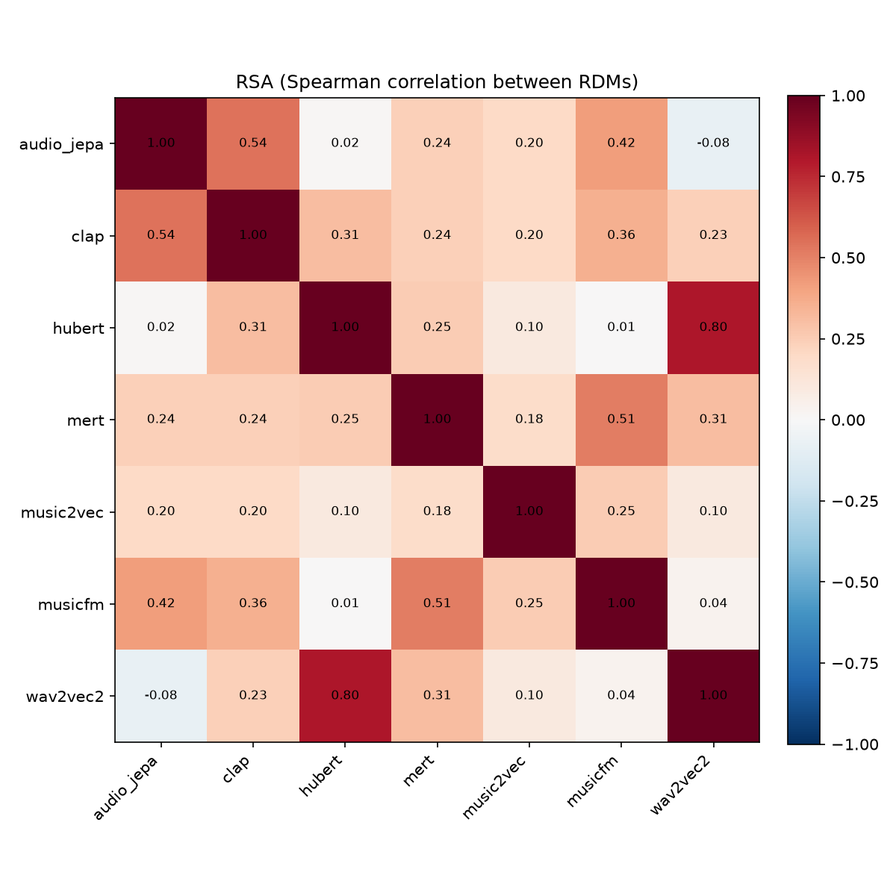
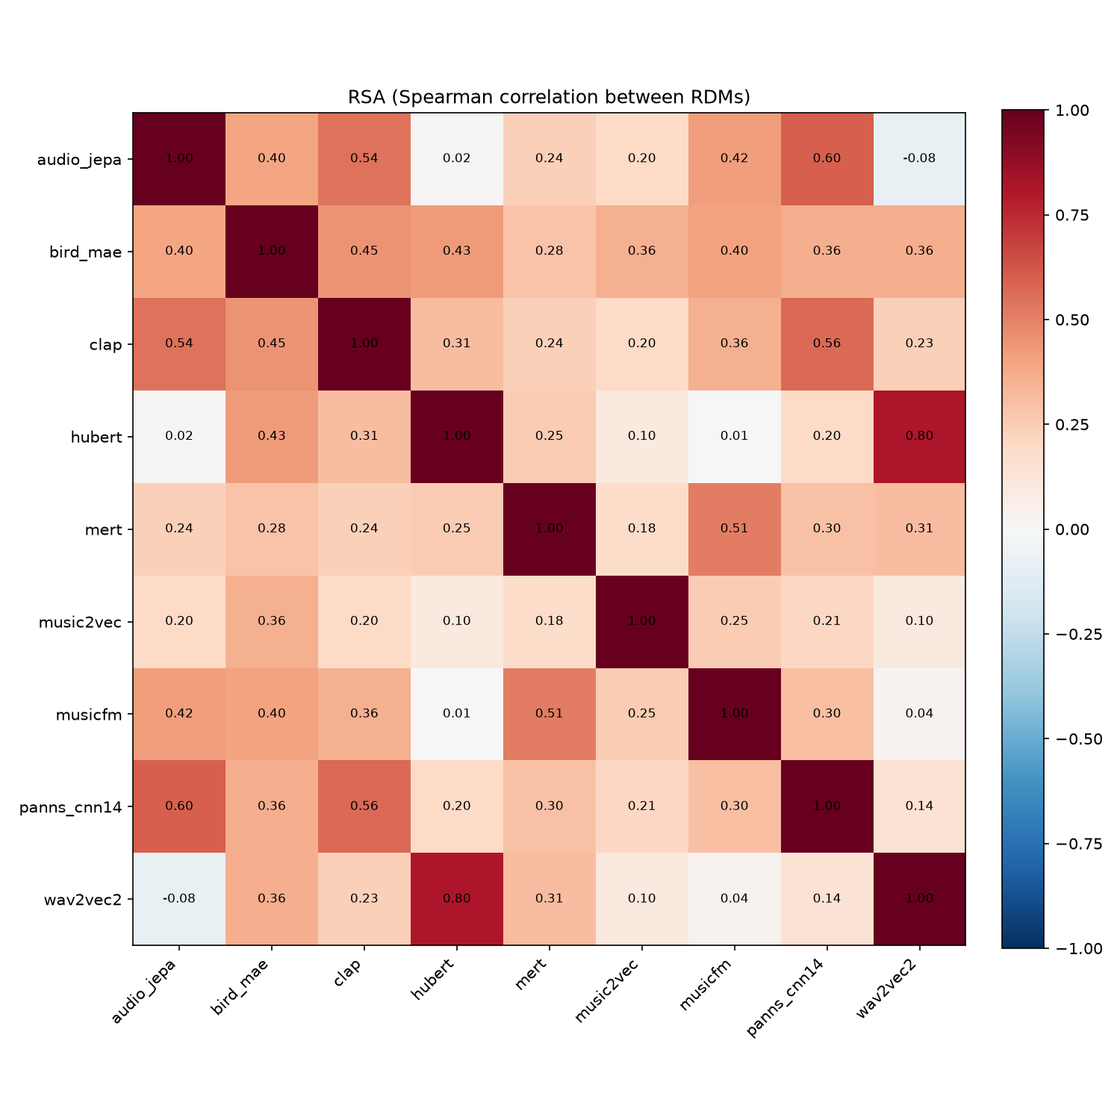
9-model RSA/CKA/TwoNN pass + BirdCLEF re-run: both pre-registered predictions tested, neither confirmed as originally framed
Fixed a real panns_cnn14 bug found extracting the full probe set:
Cnn14's pooling stack collapses to zero size below ~400ms input, and
the probe set has real 60ms clips (UrbanSound8K-derived). Original
smoke test missed it (only tested short clips inside a padded batch,
never standalone the way extract_embeddings.py actually calls embed()).
Fixed with a 1.0s zero-pad floor, applied identically in the new
xares_eval/encoders/panns_cnn14_encoder.py X-ARES wrapper.

Prediction 1 (PANNs / architecture axis): not supported. PANNs' mean
RSA with the 8 transformer models (0.334) is higher, not lower, than
the transformers' mean RSA with each other (0.283) -- no evidence
architecture family drives representational disagreement here. PANNs'
top individual correlations (audio_jepa, clap) line up with the
still-unstarted breadth-hypothesis reframing better than with paradigm
or architecture.

Prediction 2 (BirdMAE vs CLAP on BirdCLEF): real but more nuanced than
either clean alternative. BirdMAE beats CLAP on MLP (0.345 vs 0.284)
but not KNN (0.183 vs 0.189) -- and PANNs, with no bioacoustic domain
match at all, shows the identical MLP-wins/KNN-loses pattern relative
to CLAP. This complicates a pure domain-relevance explanation and
points instead to a training-objective effect: CLAP's contrastive space
is more separable untrained, while PANNs' supervised and BirdMAE's
reconstruction-MAE objectives both produce more MLP-trainable features
[…]

diff --git a/xares_eval/encoders/panns_cnn14_encoder.py b/xares_eval/encoders/panns_cnn14_encoder.py
@@ -1,0 +1,61 @@
+"""X-ARES encoder wrapper for PANNs Cnn14.
+
+Like CLAP (see clap_encoder.py's docstring for the fuller rationale),
+Cnn14 is architecturally clip-level, not frame-level: its forward pass
+pools out the time axis entirely inside the model (`torch.mean` over the
+frequency axis, then a max+mean pool over the remaining time axis) before
+returning a single 2048-d 'embedding' vector — there is no per-frame
+sequence to expose. Wrapped the same way as CLAP: the pooled embedding
+becomes a single "frame" spanning the whole clip. `hop_size_in_ms` is
+nominal here (matches the 4s dummy probe duration) — it isn't load-
+bearing for a genuinely single-frame-per-clip output, same as CLAP's.
+"""
+from __future__ import annotations
+
+import numpy as np
+import torch
+
+from audio_comp.models import get_model_class
+from xares_eval.encoders._util import stack_ragged, to_numpy_mono
+
+
+class PANNsCnn14XaresEncoder(torch.nn.Module):
+    def __init__(self):
+        super().__init__()
+        self._adapter = get_model_class("panns_cnn14")(device="cuda" if torch.cuda.is_available() else "cpu")
+        self._adapter.load()
+        self.sampling_rate = self._adapter.info.expected_sample_rate
+        dummy = np.zeros(self.sampling_rate * 4, dtype=np.float32)
+        with torch.no_grad():
+            seq = self._forward_one_np(dummy)
+        self.output_dim = seq.shape[-1]
+        self.hop_size_in_ms = 4000  # one frame spans the whole clip, see module docstring
+
+    def _forward_one_np(self, waveform_np: np.ndarray) -> torch.Tensor:
+        # Same short-clip floor as audio_comp.models.panns_cnn14.embed_batch
+        # (Cnn14's pooling stack collapses to a zero-size dimension below
+        # ~400ms) -- X-ARES's own dataloader doesn't know about this
+        # model-specific minimum, so it must be enforced here too.
+        min_samples = int(self._adapter.MIN_SAFE_SAMPLES_S * self.sampling_rate)
+        if len(waveform_np) < min_samples:
+            waveform_np = np.pad(waveform_np, (0, min_samples - len(waveform_np)))
+        wav = torch.from_numpy(waveform_np).unsqueeze(0).to(self._adapter.device)
+        with torch.no_grad():
+            out = self._adapter._model(wav)
+        return out["embedding"][0].unsqueeze(0).cpu()  # (1, output_dim) -- a single frame
+
+    def forward(self, audio: torch.Tensor) -> torch.Tensor:
+        if audio.ndim == 1:
+            audio = audio.unsqueeze(0)
+        sequences = []
+        for row in audio:
+            waveform_np = to_numpy_mono(row)
+            sequences.append(self._forward_one_np(waveform_np))
+        return stack_ragged(sequences)
+
+
+if __name__ == "__main__":
+    from xares.audio_encoder_checker import check_audio_encoder
+
+    encoder = PANNsCnn14XaresEncoder()
+    assert check_audio_encoder(encoder)

diff --git a/xares_eval/encoders/bird_mae_encoder.py b/xares_eval/encoders/bird_mae_encoder.py
@@ -1,0 +1,60 @@
+"""X-ARES encoder wrapper for Bird-MAE.
+
+Same situation as CLAP/PANNs (see clap_encoder.py's docstring): despite
+its HF output field being named `last_hidden_state`, BirdMAEModel.forward()
+already mean-pools over the patch/time axis internally
+(`config.global_pool == "mean"`) and returns a single pooled 768-d vector
+per clip -- there's no per-frame sequence to expose. Wrapped the same way:
+the pooled embedding becomes a single "frame" spanning the whole clip.
+`hop_size_in_ms` is nominal here, not load-bearing for a genuinely
+single-frame-per-clip output.
+
+Bird-MAE's own feature extractor internally pads/truncates every clip to
+a fixed 512-frame (~5s) window regardless of input length (see
+audio_comp.models.bird_mae's docstring), so unlike PANNs there's no
+separate short-clip floor to enforce here.
+"""
+from __future__ import annotations
+
+import numpy as np
+import torch
+
+from audio_comp.models import get_model_class
+from xares_eval.encoders._util import stack_ragged, to_numpy_mono
+
+
+class BirdMAEXaresEncoder(torch.nn.Module):
+    def __init__(self):
+        super().__init__()
+        self._adapter = get_model_class("bird_mae")(device="cuda" if torch.cuda.is_available() else "cpu")
+        self._adapter.load()
+        self.sampling_rate = self._adapter.info.expected_sample_rate
+        dummy = np.zeros(self.sampling_rate * 4, dtype=np.float32)
+        with torch.no_grad():
+            seq = self._forward_one_np(dummy)
+        self.output_dim = seq.shape[-1]
+        self.hop_size_in_ms = 4000  # one frame spans the whole clip, see module docstring
+
+    def _forward_one_np(self, waveform_np: np.ndarray) -> torch.Tensor:
+        features = self._adapter._extractor(
+            np.stack([waveform_np]), return_tensors="pt"
+        ).to(self._adapter.device)
+        with torch.no_grad():
+            out = self._adapter._model(input_values=features)
+        return out.last_hidden_state[0].unsqueeze(0).cpu()  # (1, output_dim) -- a single frame
+
+    def forward(self, audio: torch.Tensor) -> torch.Tensor:
+        if audio.ndim == 1:
+            audio = audio.unsqueeze(0)
+        sequences = []
+        for row in audio:
+            waveform_np = to_numpy_mono(row)
+            sequences.append(self._forward_one_np(waveform_np))
+        return stack_ragged(sequences)
+
+
+if __name__ == "__main__":
+    from xares.audio_encoder_checker import check_audio_encoder
+
+    encoder = BirdMAEXaresEncoder()
+    assert check_audio_encoder(encoder)

diff --git a/audio_comp/models/panns_cnn14.py b/audio_comp/models/panns_cnn14.py
@@ -68,9 +68,19 @@ class PANNsCnn14Encoder(BaseAudioEncoder):
         self._model.load_state_dict(checkpoint["model"])
         self._model = self._model.to(self.device).eval()
 
+    # Cnn14's 5 stages of (2,2) time-pooling collapse the logmel time axis
+    # to 0 for very short clips -- empirically tested 2026-08-10 (probe-set
+    # extraction crashed on real UrbanSound8K-derived clips as short as
+    # 60ms, same category of issue as the audio_jepa kaldi.fbank short-clip
+    # lesson): fails up to 300ms, first reliably safe at 400ms. 1.0s is a
+    # comfortable safety margin, not a value tied to any model design
+    # constant (unlike audio_jepa's fixed 10s training window).
+    MIN_SAFE_SAMPLES_S = 1.0
+
     def embed_batch(self, waveforms: Sequence[np.ndarray], sample_rate: int) -> np.ndarray:
         resampled = [resample(w, sample_rate, self.info.expected_sample_rate) for w in waveforms]
-        max_len = max(len(w) for w in resampled)
+        min_samples = int(self.info.expected_sample_rate * self.MIN_SAFE_SAMPLES_S)
+        max_len = max(min_samples, max(len(w) for w in resampled))
         batch = np.stack([np.pad(w, (0, max_len - len(w))) for w in resampled]).astype(np.float32)
         wav = torch.from_numpy(batch).to(self.device)
         with torch.no_grad():

diff --git a/journal.md b/journal.md
@@ -214,3 +214,31 @@
   - Once loaded: uses the model's own bundled `BirdMAEFeatureExtractor` (fbank extraction, fixed 512-frame padding/truncation, dataset-specific mean/std normalization) rather than reimplementing that logic — same reasoning as the audio_jepa kaldi.fbank lesson, reimplementing risks silently diverging from what the checkpoint actually trained on. `BirdMAEModel.forward()` already mean-pools internally (`config.global_pool == "mean"`) and returns the pooled 768-d vector as `last_hidden_state` — despite the name, not a per-frame sequence, no extra pooling needed. Smoke-tested clean on CPU (1s dummy + 60ms short clip → correctly gets zero-padded internally to the model's fixed 512-frame/5s input shape, no NaN).
 - Both added to `configs/models.yaml`'s `active_models` (now 9 total) only after passing the same smoke-test discipline as every prior model. Updated `audio_comp/models/__init__.py`, README's dependency list (`panns_inference`, `torchlibrosa` — neither declares a `torch` dependency, confirmed via `pip show`, so no repeat of the flash_attn/torch-downgrade incident) and model table (added a `checkpoint_status` column throughout, corrected `beats`' license cell to match the previous entry's finding), README's one-time-setup-script list, and CLAUDE.md's Tier 1 table (added a `Status` column marking these two `wired up 2026-08-10`).
 - Full registry sanity check after wiring: all 9 active models resolve through `get_model_class()` cleanly (the actual comparison-eligibility gate), correct `checkpoint_status` per model. Not yet run through the actual probe-set embedding extraction pipeline (`extract_embeddings.py` on the full 10,000-clip probe set) or the RSA/CKA comparison (Stage 3) — that's the next step, not done in this pass.
+- **Pre-registered predictions, written before running the 9-model geometry pass or the PANNs/BirdMAE BirdCLEF re-run** (user's explicit request, same discipline as the audio_jepa low-ID/high-cohesion prediction, 2026-08-09):
+  1. **PANNs, architecture axis.** If RSA/CKA agreement between `panns_cnn14` and the transformer-based models is notably *lower* than agreement among the transformer-based models with each other (even ones that differ in training objective), that's evidence architecture family shapes representational geometry independently of training paradigm — every model in the roster until now has varied objective/data, never backbone, so this would be a genuinely new axis, not a replay of an existing one.
+  2. **BirdMAE, the sharper test.** BirdMAE is domain-matched (bioacoustic-specific) but reconstruction-based (MAE-style), not contrastive — this directly stress-tests the discriminative-pressure/contrastive-training account of fine-grained classification that's been building since CLAP's wins on FMA/UrbanSound8K/BirdCLEF (2026-08-10 entries). If CLAP still beats BirdMAE on BirdCLEF specifically despite BirdMAE's domain match, that's strong, citable evidence the discriminative-pressure story dominates domain relevance — a genuinely striking result given how "obviously" a specialist should win on its own domain. If BirdMAE wins, that says domain-relevance can override the training-objective effect — the more expected outcome, but not yet confirmed, worth stating as the alternative rather than assumed.
+  Sequence: full RSA/CKA/TwoNN pass at 9 models first, then BirdCLEF re-run with `panns_cnn14`/`bird_mae` added, before deciding whether AudioMAE/AST or a write-up pause makes more sense.
+- Hit a real bug extracting `panns_cnn14`'s probe-set embeddings: `RuntimeError: Given input size: (256x1x16). Calculated output size: (256x0x8)` — Cnn14's 5 stages of (2,2) time-pooling collapse the logmel time axis to zero for short clips, and the 10,000-clip probe set includes real UrbanSound8K-derived `city_noise` clips as short as 60ms (same class of issue as the audio_jepa kaldi.fbank short-clip lesson, 2026-08-09, just a different model this time). My original smoke test missed this because it tested the 60ms clip only inside a padded batch alongside a 1s clip (which masked the problem), never as a standalone `embed()` call the way `extract_embeddings.py` actually calls it (one clip at a time, batch size 1). Empirically tested the real threshold: fails up to 300ms, first reliably safe at 400ms. Fixed with a 1.0s zero-pad floor in `embed_batch()` (a safety margin, not tied to any PANNs design constant, unlike audio_jepa's fixed-10s window) — re-extracted cleanly afterward, and applied the identical fix in the new `xares_eval/encoders/panns_cnn14_encoder.py` wrapper too, since X-ARES's own dataloader doesn't know about this model-specific minimum either.
+- Built `xares_eval/encoders/panns_cnn14_encoder.py` and `bird_mae_encoder.py` for the eventual BirdCLEF re-run, following the same pooled-single-frame-sequence pattern CLAP's wrapper already established (both models pool out the time axis entirely inside `forward()`, so there's no real per-frame sequence to expose — see `clap_encoder.py`'s docstring for the original rationale). Both smoke-tested clean via `check_audio_encoder`.
+- **Ran the full RSA/CKA/TwoNN comparison at 9 models** (`results/rsa_matrix.csv`, `cka_matrix.csv`, `intrinsic_dimension.csv`, heatmaps). Took considerably longer than the original 7-model run (~35+ min, backgrounded rather than foreground after a 2-minute timeout) — expected given `compute_rdm`'s O(n^2 * dim) cost on 10,000 clips, and PANNs' 2048-d embedding is the largest in the roster.
+  - **Prediction 1 (PANNs, architecture axis): not supported.** Computed directly: mean RSA among the 8 transformer-based models (28 pairs) = 0.2826; mean RSA between `panns_cnn14` and each of those 8 = 0.3336 — PANNs' agreement with the transformer roster is *higher* than the transformers' agreement with each other, the opposite direction the prediction was looking for. No evidence architecture family (CNN vs. transformer) is an independent geometry-shaping axis, at least not in the direction of causing systematic *disagreement*. A clean negative result, stated as such, not reached-for.
+  - **Candidate alternative pattern, worth flagging rather than following up on unprompted**: PANNs' two *highest* individual correlations are with `audio_jepa` (0.60) and `clap` (0.56) — both very different paradigms (JEPA-family, contrastive) but both trained on broad, general-audio-scale data (PANNs itself: AudioSet, a broad supervised-tagging corpus). This lines up with the still-not-started Stage 1(b) breadth-hypothesis reframing (narrow-speech / narrow-music / broad-mixed groupings) better than with either the paradigm or the architecture-family framing — PANNs, audio_jepa, and CLAP would all sit in the same "broad-mixed" bucket under that reframing. Not chased further now (Stage 1(b) is still explicitly out of scope for this session), but this is a second independent data point in its favor, worth remembering when that check finally happens.
+  - `bird_mae`'s RSA pattern is comparatively flat/uniform across the roster (0.28–0.45, no sharp outlier pairing either way) — nothing sharp enough here to comment on yet; the real BirdMAE test (prediction 2) is functional (BirdCLEF classification), not geometric, and needs the Slurm re-run's actual numbers, not the RSA matrix.
+  - TwoNN intrinsic dimension: `panns_cnn14` = 12.524 (unremarkable, sits between `clap` 12.314 and the rest of the pack — no architecture-driven outlier there either), `bird_mae` = 14.348 (also unremarkable). Neither model's ID stands out the way, say, `music2vec`'s 21.5 (highest of all 9) or `audio_jepa`'s 10.8 (lowest) already did.
+- BirdCLEF re-run submitted for `panns_cnn14` (job 54058115) and `bird_mae` (job 54058116) — both completed cleanly. Full 9-model BirdCLEF table (MLP / KNN, chance = 1/50 = 0.02):
+
+  | Model | MLP | KNN |
+  |---|---|---|
+  | bird_mae | **0.345** | 0.183 |
+  | panns_cnn14 | 0.308 | 0.134 |
+  | clap | 0.284 | **0.189** |
+  | hubert | 0.260 | 0.068 |
+  | mert | 0.250 | 0.068 |
+  | musicfm | 0.247 | 0.113 |
+  | music2vec | 0.121 | 0.049 |
+  | audio_jepa | 0.089 | 0.043 |
+  | wav2vec2 | 0.049 | 0.035 |
+
+  - **Prediction 2 (BirdMAE, the sharper test): result is real but more nuanced than either clean alternative posed.** BirdMAE *does* beat CLAP on MLP (0.345 vs. 0.284) — domain-relevance winning out over CLAP's discriminative/contrastive-pressure edge, the "more expected" outcome the prediction named as the alternative. But CLAP is still (barely) ahead on KNN (0.189 vs. 0.183 — a ~3% relative gap on n=1000, arguably within noise, not a clean win either way). So it's not a flat "BirdMAE wins" — it wins the trained-head comparison and ties/slightly loses the untrained raw-geometry comparison.
+  - **The complication worth stating plainly, not glossing over: PANNs shows the *exact same qualitative pattern* relative to CLAP, and PANNs is not domain-matched to birds at all** (general AudioSet supervised tagging) — MLP 0.308 > CLAP's 0.284, KNN 0.134 < CLAP's 0.189. If domain-relevance were the operative explanation for BirdMAE's MLP win, there's no reason a general-purpose, non-bioacoustic model should show the identical MLP-wins/KNN-loses relationship to CLAP. It does. This points to a cleaner, more general explanation than "domain match beats discriminative pretraining": **CLAP's contrastive embedding space is more linearly/metrically separable out of the box (higher KNN, no training needed), while both PANNs (supervised classification) and BirdMAE (reconstruction MAE) produce features that a trained MLP head can exploit *more* than CLAP's despite being less separable untrained.** This is a genuine extension of the project's standing cohesion-vs-separability headline finding (2026-08-10, Stage 1a): it's not just "coarse cohesion vs. fine-grained separability don't transfer" — training objective also seems to trade off *raw embedding-space separability* (what KNN measures) against *trainable-head exploitability* (what MLP measures), and this trade shows up whether or not the pretraining domain matches the downstream task. Domain-relevance (BirdMAE's actual bird training data) may still matter at the margin — it does have the single highest MLP score of all 9 — but the PANNs comparison shows domain match isn't *necessary* to get the same qualitative MLP/KNN split, so it can't be the primary explanation on its own.
+  - Not a fully resolved account yet — this is now three separable axes in play (coarse cohesion, fine-grained separability, and this new trained-head-exploitability-vs-raw-separability split) with only 9 models and 4 downstream tasks to trace them through. Flagging as the sharpest current lead for the eventual Stage 6 diagnostic (already candidate-marked for Wang & Isola alignment/uniformity metrics) rather than claiming it's settled.

diff --git a/CLAUDE.md b/CLAUDE.md
@@ -47,8 +47,8 @@ Phase 1 reached decision-rule outcome 2 (partial/cluster agreement) at 2000 clip
   |---|---|---|---|
   | AudioMAE | official_open_weights | Reconstruction-target paradigm (raw spectrogram, not latent) — nothing in the current roster tests this | not started |
   | AST | official_open_weights | Supervised training — tests whether label supervision matters independent of paradigm | not started |
-  | PANNs CNN14 | official_open_weights (verified 2026-08-10 against `github.com/qiuqiangkong/audioset_tagging_cnn` directly: MIT LICENSE.MIT, checkpoint on the authors' own Zenodo record) | Pure CNN architecture — every current model is transformer-based; untested ResNet-vs-ViT inductive-bias axis | **wired up 2026-08-10** (`audio_comp/models/panns_cnn14.py`, active in `configs/models.yaml`) |
-  | BirdMAE | official_public_weights_license_unclear (verified 2026-08-10: no LICENSE file in the GitHub repo — confirmed via GitHub's license API returning 404, not just undetected — and no license field on the HF card; genuinely unresolved, not a formality) | Domain-specific bioacoustic encoder; **also directly serves the `bird_sounds`/BirdCLEF X-ARES extension track (`xares_eval/birdclef/`) — one integration effort, not two** | **wired up 2026-08-10** (`audio_comp/models/bird_mae.py`, active in `configs/models.yaml`; needed a version-skew shim for a transformers 4.38→5.15 incompatibility in the checkpoint's own vendored code — see module docstring) |
+  | PANNs CNN14 | official_open_weights (verified 2026-08-10 against `github.com/qiuqiangkong/audioset_tagging_cnn` directly: MIT LICENSE.MIT, checkpoint on the authors' own Zenodo record) | Pure CNN architecture — every current model is transformer-based; untested ResNet-vs-ViT inductive-bias axis | **wired up + validated 2026-08-10** (`audio_comp/models/panns_cnn14.py`, active in `configs/models.yaml`; interim 9-model RSA/CKA/TwoNN pass and BirdCLEF re-run both complete — see journal for the architecture-axis prediction result, not supported) |
+  | BirdMAE | official_public_weights_license_unclear (verified 2026-08-10: no LICENSE file in the GitHub repo — confirmed via GitHub's license API returning 404, not just undetected — and no license field on the HF card; genuinely unresolved, not a formality) | Domain-specific bioacoustic encoder; **also directly serves the `bird_sounds`/BirdCLEF X-ARES extension track (`xares_eval/birdclef/`) — one integration effort, not two** | **wired up + validated 2026-08-10** (`audio_comp/models/bird_mae.py`, active in `configs/models.yaml`; needed a version-skew shim for a transformers 4.38→5.15 incompatibility in the checkpoint's own vendored code — see module docstring; BirdCLEF re-run shows a real but nuanced result, see journal — beats CLAP on MLP, not on KNN, and PANNs shows the identical pattern despite no domain match, complicating a pure domain-relevance explanation) |
   | Perch 2.0 | official_public_weights_license_unclear — verify before use | Second independent bioacoustic-domain check; same dual-purpose note as BirdMAE | not started |
   | EnCodecMAE | official_open_weights | Neural-codec-derived representation — discrete/compressed representation type, distinct from BEATs' self-distilled tokenizer approach | not started |
 
@@ -62,8 +62,8 @@ Phase 1 reached decision-rule outcome 2 (partial/cluster agreement) at 2000 clip
   | NatureLM-audio | official_open_weights | Multimodal audio-language model — **needs an explicit written decision on what layer/pooling defines "the representation" before it can enter an RDM comparison at all**, not a plain encoder like the rest of the roster |
 
   **Gate for every addition, Tier 1 or 2, before any adapter code is written:** weights downloadable without private access; license permits research use; produces deterministic embeddings through a documented adapter; checkpoint_status verified against the model's **primary paper/repo directly, not a secondary source** — this is a hard requirement given the music2vec and A-JEPA/Audio-JEPA mix-ups already hit in this project, not optional diligence. Gate before Stage 3 continues to apply on top of this: every new adapter smoke-tested on short/edge-case clips (per the audio_jepa kaldi.fbank lesson), checked for dependency-version side effects (per the flash_attn/torch lesson).
-- **Stage 3 — Re-run the geometry toolkit at ~11 models.** Full RDM/RSA/CKA/TwoNN sweep on the same fixed probe set; re-test the breadth hypothesis with the new axes; re-run `inspect_geometry.py` per new model individually. **This is the point at which the Datasets & Benchmarks-track floor is fully met.**
-- **Stage 4 — Functional validation at the expanded roster.** Repeat Stage 1's downstream probe across all ~11 models; test whether the surviving explanatory variable predicts downstream accuracy, not just mutual RSA.
+- **Stage 3 — Re-run the geometry toolkit at ~11 models.** Full RDM/RSA/CKA/TwoNN sweep on the same fixed probe set; re-test the breadth hypothesis with the new axes; re-run `inspect_geometry.py` per new model individually. **This is the point at which the Datasets & Benchmarks-track floor is fully met.** **Interim 9-model pass done 2026-08-10** (`panns_cnn14` + `bird_mae` only, not the full Tier 1 roster) — not the formal Stage 3 completion (that's ~11 models, 4 more Tier 1 additions still needed), but real signal already: PANNs' RSA agreement with the transformer-based models (mean 0.334) is *higher*, not lower, than the transformers' agreement with each other (mean 0.283) — no evidence architecture family is an independent geometry-shaping axis in this data, a clean negative result for that specific hypothesis. PANNs' two highest individual correlations (`audio_jepa` 0.60, `clap` 0.56) line up with the still-unstarted Stage 1(b) breadth-hypothesis grouping (broad-training-distribution models) better than paradigm or architecture do — second independent point in that reframing's favor.
+- **Stage 4 — Functional validation at the expanded roster.** Repeat Stage 1's downstream probe across all ~11 models; test whether the surviving explanatory variable predicts downstream accuracy, not just mutual RSA. **Interim check done 2026-08-10**: re-ran BirdCLEF (not the full 3-task X-ARES suite) with `panns_cnn14`/`bird_mae` added. BirdMAE beats CLAP on MLP (0.345 vs. 0.284) but not KNN (0.183 vs. 0.189) — real, but PANNs (no bioacoustic domain match at all) shows the *identical* MLP-wins/KNN-loses relationship to CLAP, which undercuts a pure domain-relevance explanation for BirdMAE's MLP edge. Sharper reading: CLAP's contrastive embedding space is more separable untrained (KNN), while PANNs' supervised and BirdMAE's reconstruction-MAE objectives both produce features a trained MLP head can exploit more, regardless of domain match. A genuine extension of the Stage 1(a) cohesion-vs-separability headline finding — now a three-way split (coarse cohesion / fine-grained separability / raw-separability-vs-trainable-head-exploitability), not fully resolved with only 9 models and 4 tasks. Full log in journal.md, 2026-08-10 entries.
 - **Stage 5 — OOD fine-tuning extension (first half of the novelty ceiling).** Target: real vessel/underwater-acoustic data (genuinely OOD for every current model, and the actual eventual application domain — DeepShip's 63-clip GitHub subset, see journal 2026-08-10, is an early real-data preview of this axis, not yet the formal Stage 5 run). Matched lightweight adaptation (LoRA/small adapter, not full fine-tuning) on a fixed-size OOD training slice; measure final adapted performance and the few-shot learning curve; correlate against Stage 3's frozen-geometry metrics (ID, cohesion/separation index, RSA-cluster membership). Note for any write-up: this tests representation-*space* intrinsic dimension predicting adaptability — a different object from Aghajanyan/Gupta/Zettlemoyer (ACL 2021)'s fine-tuning *parameter-update* intrinsic dimension finding; same term, different space, state explicitly. Falsification is a legitimate outcome here too: no correlation just means geometry is descriptive but not predictive of adaptability.
 
   **Fine-tuning methodology (formalized 2026-08-10): two separate conditions, never blended.**
